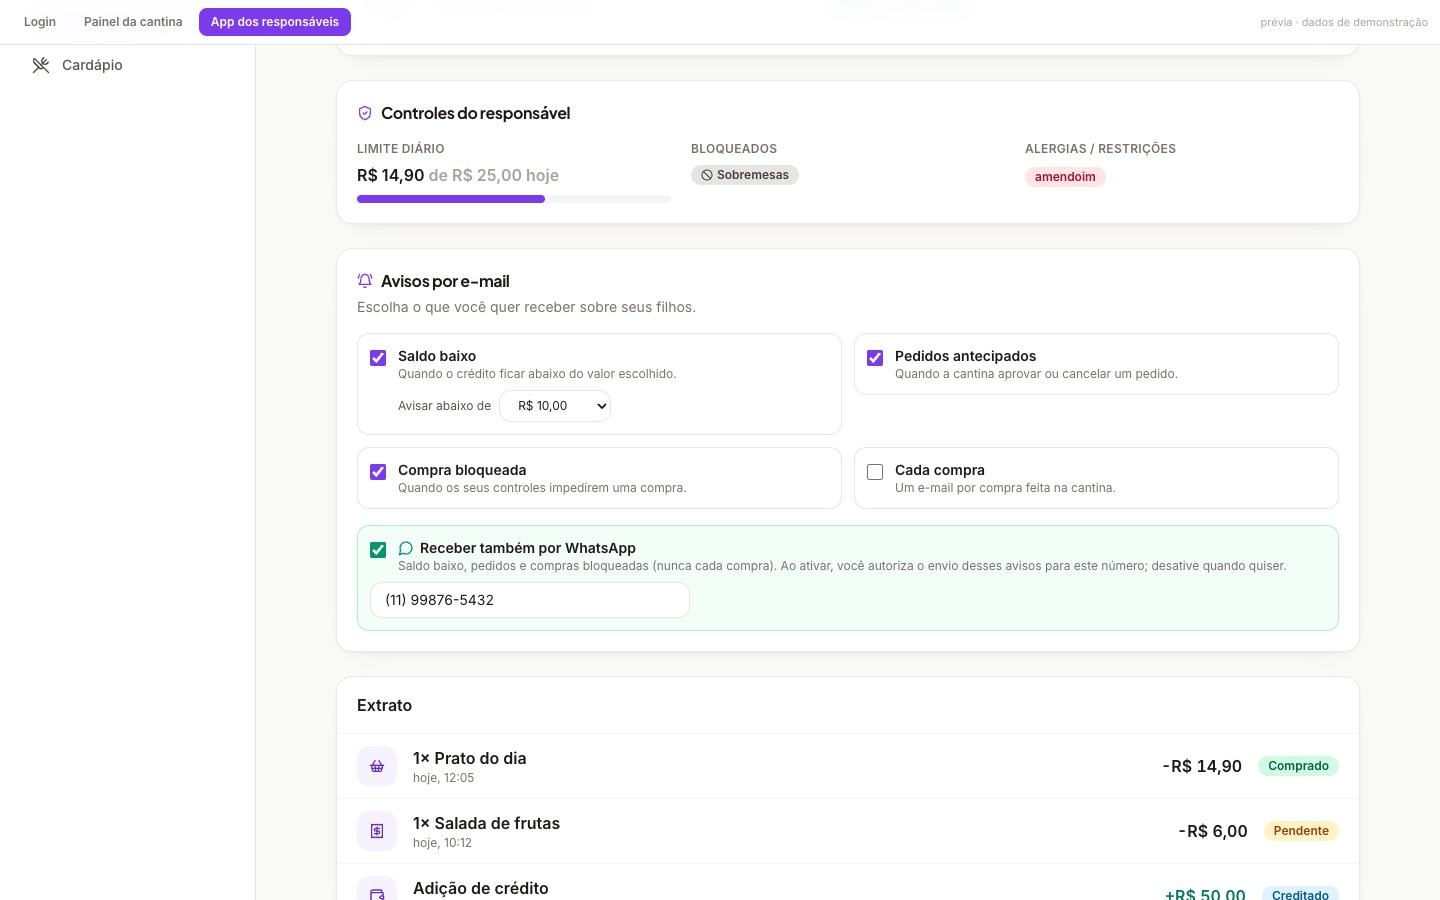
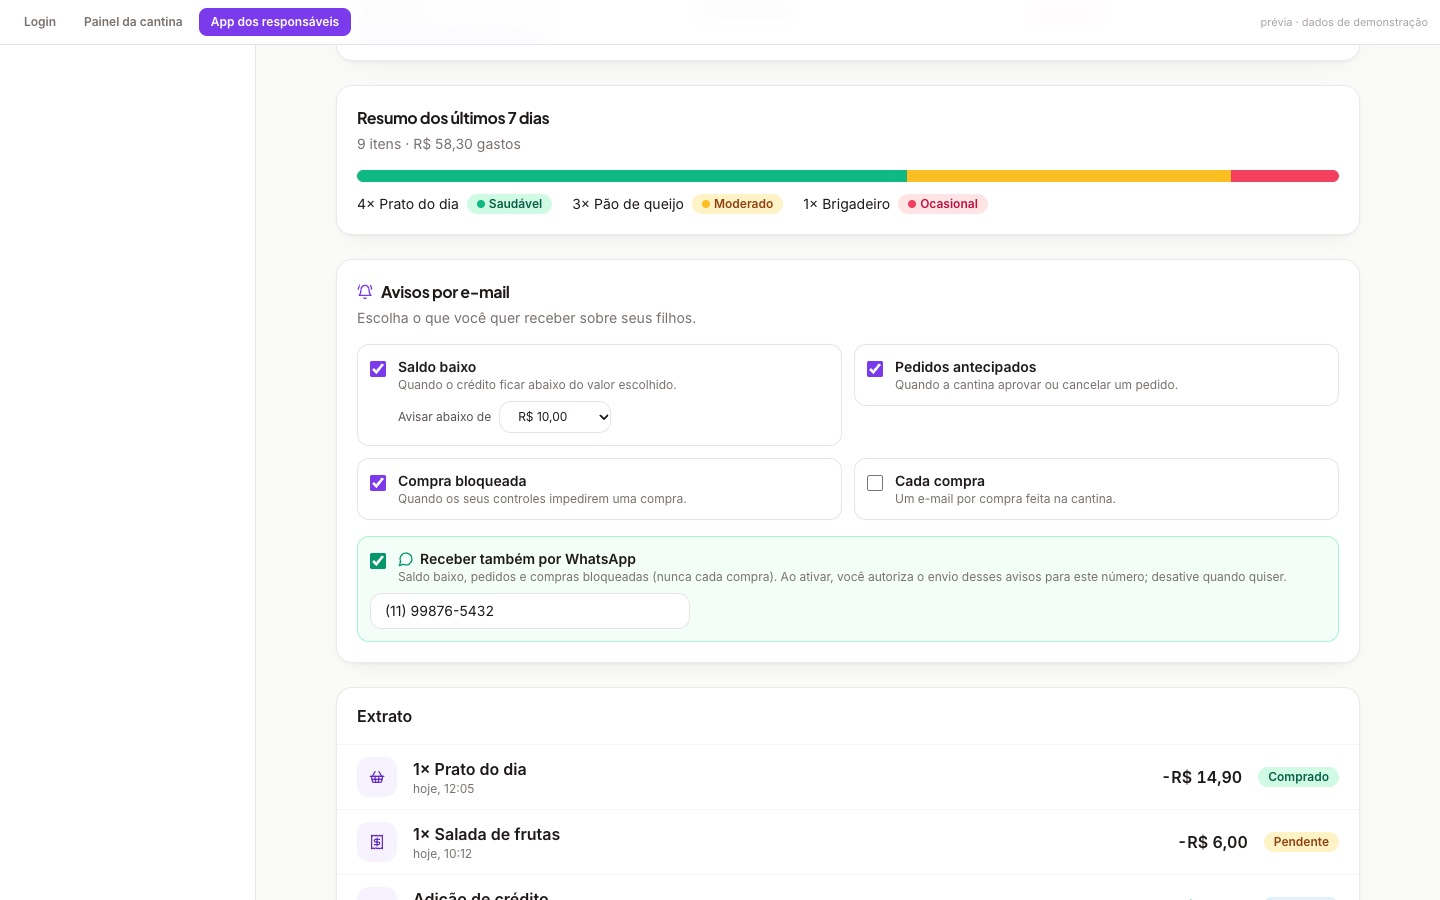
docs: MealMate screenshots with pickup slots, 7-day summary and installable app

diff --git a/data.js b/data.js
@@ -192,10 +192,10 @@ window.PORTFOLIO = {
       repoPrivate: true,
       tags: ['Go 1.27', 'net/http', 'DynamoDB', 'SQLite (pure Go)', 'AWS Lambda', 'CloudFront', 'AWS CDK (Go)', 'LocalStack', 'JWT HS256', 'React 18', 'TypeScript', 'Tailwind', 'TanStack Query', 'GitHub Actions'],
       shots: [
-        { src: 'assets/projects/mm_preview_painel.jpg', alt: { pt: 'Painel da cantina com a marca do contrato (Colégio Aurora): vendas, solicitações e alunos', en: 'Canteen dashboard in the contract brand (Colégio Aurora): sales, requests and students' } },
-        { src: 'assets/projects/mm_preview_responsavel.jpg', alt: { pt: 'App do responsável: controles (limite diário, bloqueios, alergias), avisos por e-mail e WhatsApp com consentimento, e extrato', en: 'Guardian app: controls (daily limit, blocked items, allergies), e-mail and opt-in WhatsApp alerts, and ledger' } },
+        { src: 'assets/projects/mm_preview_painel.jpg', alt: { pt: 'Painel da cantina com a marca do contrato (Colégio Aurora): vendas, alunos e pedidos antecipados com horário de retirada (recreio ou almoço)', en: 'Canteen dashboard in the contract brand (Colégio Aurora): sales, students and pre-orders with a pickup slot (break or lunch)' } },
+        { src: 'assets/projects/mm_preview_responsavel.jpg', alt: { pt: 'App do responsável: resumo dos últimos 7 dias por selo nutricional, avisos por e-mail e WhatsApp com consentimento, e extrato', en: 'Guardian app: 7-day summary by nutrition seal, e-mail and opt-in WhatsApp alerts, and ledger' } },
         { src: 'assets/projects/mm_preview_login.jpg', alt: { pt: 'Login whitelabel com recuperação de senha por e-mail: nome, cor e textos vêm do template do contrato', en: 'White-label login with e-mail password reset: name, color and copy come from the contract template' } },
-        { src: 'assets/projects/mm_mobile_responsavel.jpg', alt: { pt: 'Controles do responsável no celular', en: 'Guardian controls on mobile' } },
+        { src: 'assets/projects/mm_mobile_responsavel.jpg', alt: { pt: 'Controles do responsável no celular (app instalável na tela inicial)', en: 'Guardian controls on mobile (installable to the home screen)' } },
         { src: 'assets/projects/cg_dashboard.jpg', alt: { pt: 'Painel do dia: vendas, solicitações pendentes com aprovar/cancelar, mais vendidos e saldo baixo', en: 'Day dashboard: sales, pending requests with approve/cancel, top sellers and low balances' } },
         { src: 'assets/projects/cg_comanda_apos_compra.jpg', alt: { pt: 'Comanda do aluno com extrato imutável: compras, crédito e solicitação pendente', en: 'Student tab with immutable ledger: purchases, credit and a pending request' } },
         { src: 'assets/projects/cg_compra_modal.jpg', alt: { pt: 'Registrar compra no caixa com validação de saldo', en: 'Counter sale with balance validation' } },
@@ -222,6 +222,7 @@ window.PORTFOLIO = {
           'Deploy compartilhado em free tier: Lambda arm64 (zip) + Function URL + CloudFront + DynamoDB provisionado; várias escolas em /c/{slug} na mesma tabela, isoladas por prefixo de chave e chave de sessão própria; saldo gravado com escrita condicional contra gasto duplo.',
           'Mesmas portas para SQLite e DynamoDB, suíte inteira rodando nos dois (LocalStack no CI); painel otimizado de 10,7 para 0,69 RCU/s por escola, medido em teste.',
           'Avisos por e-mail aos responsáveis (saldo baixo, pedido, compra bloqueada) e recuperação de senha com link assinado de uso único, sem tabela de tokens; cota diária compartilhada por todas as escolas num contador atômico do DynamoDB; domínio próprio por escola resolvido pelo host.',
+          'App instalável (PWA com manifesto e ícone por escola), LGPD (consentimento versionado, exportação e exclusão de conta, anonimização de aluno, trilha de auditoria com expiração) e diferenciais de cantina: limite por dia da semana, selo nutricional, estoque com escrita condicional, horário de retirada, carteirinha com QR Code e caixa rápido pela câmera.',
         ],
         en: [
           'Go 1.27 backend on stdlib + pure-Go SQLite (no CGO): hexagonal layout, ports for repositories/hasher/tokens, embedded migrations, money in integer cents.',
@@ -232,6 +233,7 @@ window.PORTFOLIO = {
           'Free-tier shared deployment: arm64 Lambda (zip) + Function URL + CloudFront + provisioned DynamoDB; many schools under /c/{slug} in one table, isolated by key prefix and per-instance session keys; balances written with conditional writes against double spending.',
           'Same ports for SQLite and DynamoDB, whole suite running on both (LocalStack in CI); dashboard cut from 10.7 to 0.69 RCU/s per school, measured in a test.',
           'E-mail alerts for guardians (low balance, pre-orders, blocked sales) and password reset with a signed single-use link, no token table; a daily e-mail budget shared by every school in an atomic DynamoDB counter; per-school custom domains resolved from the host.',
+          'Installable app (PWA with per-school manifest and icon), LGPD/GDPR-style privacy (versioned consent, data export and account deletion, student anonymization, expiring audit trail) and canteen features: per-weekday limits, nutrition seals, stock with conditional writes, pickup slots, QR student cards and camera-based quick checkout.',
         ],
       },
     },
